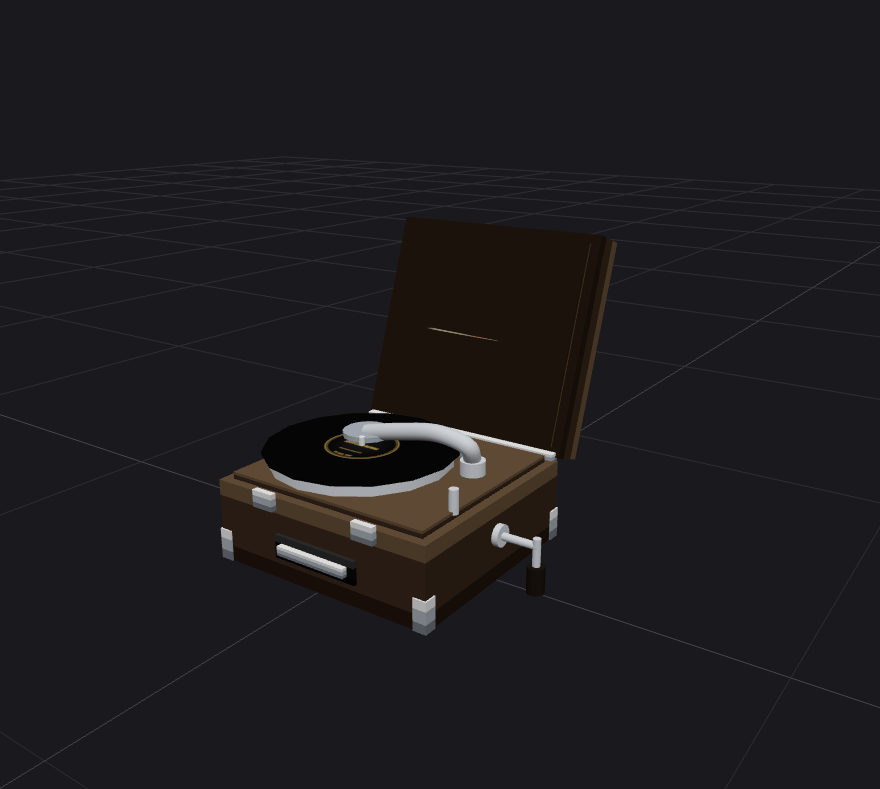
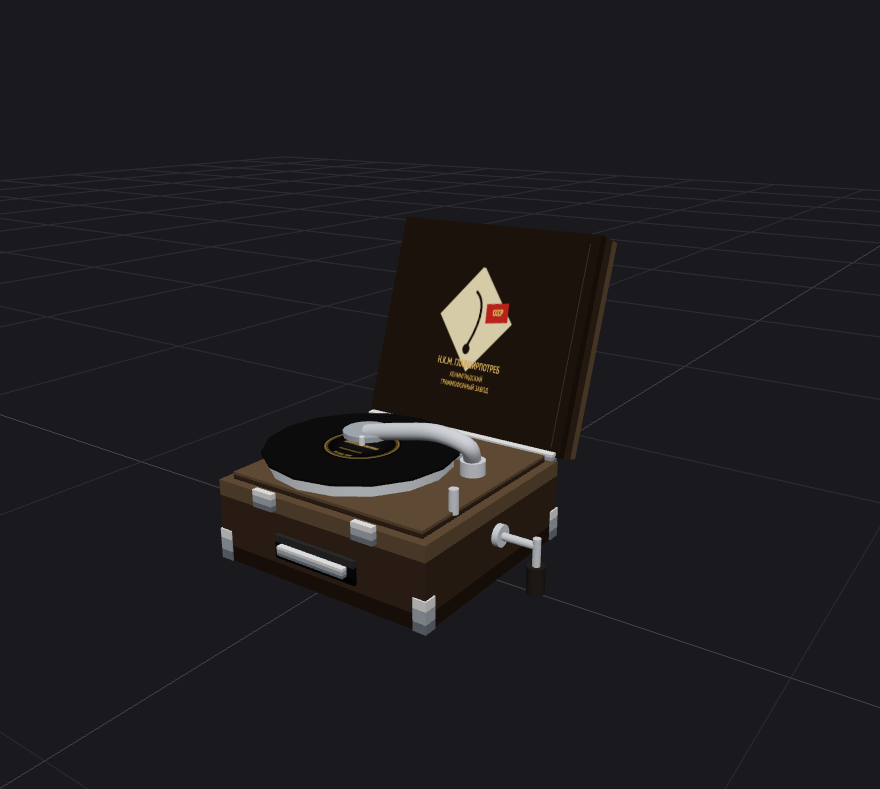
feat(modelgen): disc op + gramophone label styles & orientation fixes
- New standalone `disc` operator (thin cylinder mesh) so the record vinyl can
  be lifted off the platter independently (the live record-swap animation).
- Gramophone spec: record cylinder→disc; lid maker's logo laid flat & facing
  the viewer (was edge-on/reversed); speed/auto plates laid flat on the deck.
- makeRecordLabelTexture: 4 authentic pressing styles (red/blue Апрелевка
  spire emblem, cream Мелодия, gold-on-black) + randomLabelStyle().
- manifest/extents/index/ops-v2 test entries for `disc`; 67/67 tests, lint clean.

Changed region(s): [[0.4909, 0.3346, 0.583, 0.5171]]

diff --git a/src/props/operators/round.js b/src/props/operators/round.js
@@ -17,6 +17,17 @@ export function cylinder(b, a, t, o) {
   g.dispose();
 }
 
+// disc — a thin standalone cylinder (a record, a wheel face) returned as its OWN mesh, so an animator
+// can lift/spin it independently of the merged body (the gramophone's record-swap lifts the whole disc).
+export function disc(b, a, t, o) {
+  const g = new THREE.CylinderGeometry(a.r, a.r, a.h ?? 0.003, a.seg ?? 48);
+  const mesh = new THREE.Mesh(g, new THREE.MeshLambertMaterial({ color: new THREE.Color(a.tone ? t[a.tone] : t.mid) }));
+  const or = ORIENT[a.axis ?? 'y'];
+  mesh.rotation.set(or.rx || 0, or.ry || 0, or.rz || 0);
+  mesh.position.set(o.x, o.y, o.z);
+  return mesh;
+}
+
 // Cone of base radius r, length h, tip pointing along +axis (nose cones, tapers).
 export function cone(b, a, t, o) {
   const seg = a.seg ?? 16;
@@ -188,29 +199,55 @@ function _arcText(c, text, cx, cy, radius, mid, step, size, flip = false) {
   c.restore();
 }
 
-// makeRecordLabelTexture — the gold-on-black Апрелевский / СССР 78-rpm centre label. Exported so
-// the live gramophone re-skins the disc per song (set mesh.material.map = this; map.needsUpdate).
-export function makeRecordLabelTexture({ title = 'СССР', sub = 'АПРЕЛЕВСКИЙ ЗАВОД', mode = 'black' } = {}) {
+// The real 78/33-rpm Soviet pressing labels, drawn from the owner's reference photos: Апрелевский
+// завод in red and blue, the cream Мелодия, plus the gold-on-black classic. Each is {bg, ink, hub,
+// factory, gost, emblem, foot}. The live gramophone picks a random one per track (record-swap).
+const LABEL_STYLES = {
+  aprelevka_red:  { bg: ['#cf2a22', '#9c1812'], ink: '#e7c45a', hub: '#2a0c0a', factory: 'АПРЕЛЕВСКИЙ ЗАВОД', gost: 'ГОСТ 5289-50', emblem: 'spire', foot: 'КОМИТЕТ РАДИОИНФОРМАЦИИ' },
+  aprelevka_blue: { bg: ['#23538f', '#143461'], ink: '#e7c45a', hub: '#0b1c34', factory: 'АПРЕЛЕВСКИЙ ЗАВОД', gost: 'ГОСТ 5289-50', emblem: 'spire', foot: 'КОМИТЕТ ПО ДЕЛАМ ИСКУССТВ' },
+  melodiya:       { bg: ['#efe7d4', '#d6c8ac'], ink: '#21527a', hub: '#1d130a', factory: 'МЕЛОДИЯ', gost: 'ГОСТ 5289-73', emblem: 'melodiya', foot: 'ВСЕСОЮЗНАЯ ФИРМА ГРАМПЛАСТИНОК' },
+  black:          { bg: ['#1c1c1c', '#050505'], ink: '#d8b15a', hub: '#000000', factory: 'АПРЕЛЕВСКИЙ ЗАВОД', gost: 'ГОСТ 5289-50', emblem: 'star', foot: 'МИНИСТЕРСТВО КУЛЬТУРЫ СССР' },
+};
+export const LABEL_STYLE_KEYS = Object.keys(LABEL_STYLES);
+export function randomLabelStyle() { return LABEL_STYLE_KEYS[Math.floor(Math.random() * LABEL_STYLE_KEYS.length)]; }
+
+// The Апрелевка radio-tower-and-wheat emblem (red/blue labels) — a stepped spire flanked by rays/ears.
+function _spireEmblem(c, ink) {
+  c.save(); c.strokeStyle = ink; c.fillStyle = ink; c.lineWidth = 6; c.lineCap = 'round';
+  for (let i = 0; i < 9; i++) { const a = -Math.PI / 2 + (i - 4) * 0.16; c.beginPath(); c.moveTo(0, -6); c.lineTo(Math.sin(a) * 64, -6 - Math.cos(a) * 64); c.stroke(); } // fanned rays
+  c.lineWidth = 4; for (const s of [-1, 1]) for (let j = 0; j < 4; j++) { const x = s * (20 + j * 11), y = -10 + j * 8; c.beginPath(); c.moveTo(s * 8, 6); c.quadraticCurveTo(x, y, x + s * 8, y - 12); c.stroke(); } // wheat ears
+  c.fillRect(-7, -2, 14, 30); c.fillRect(-11, 26, 22, 8);                      // central tower + base
+  c.beginPath(); c.moveTo(0, -20); c.lineTo(-7, -2); c.lineTo(7, -2); c.closePath(); c.fill(); // spire cap
+  c.restore();
+}
+
+// makeRecordLabelTexture — one authentic centre label. `style` ∈ LABEL_STYLE_KEYS (random per song);
+// legacy `mode` ('cream'→melodiya, else black) still accepted. Exported so the live gramophone reskins.
+export function makeRecordLabelTexture({ title = 'СССР', style, mode } = {}) {
+  const key = style && LABEL_STYLES[style] ? style : (mode === 'cream' ? 'melodiya' : 'black');
+  const st = LABEL_STYLES[key];
   const S = 512, cv = document.createElement('canvas'); cv.width = cv.height = S;
   const c = cv.getContext('2d'), R = S / 2;
-  const ink = mode === 'cream' ? '#7a1a14' : '#d8b15a';                       // print colour
   const bg = c.createRadialGradient(R, R, 8, R, R, R);
-  if (mode === 'cream') { bg.addColorStop(0, '#ecdfc4'); bg.addColorStop(1, '#cdbd96'); }
-  else { bg.addColorStop(0, '#1c1c1c'); bg.addColorStop(1, '#050505'); }
+  bg.addColorStop(0, st.bg[0]); bg.addColorStop(1, st.bg[1]);
   c.fillStyle = bg; c.beginPath(); c.arc(R, R, R, 0, 7); c.fill();
-  c.strokeStyle = ink; c.lineWidth = 5; c.beginPath(); c.arc(R, R, R - 20, 0, 7); c.stroke();
+  c.strokeStyle = st.ink; c.lineWidth = 5; c.beginPath(); c.arc(R, R, R - 20, 0, 7); c.stroke();
   c.lineWidth = 2; c.beginPath(); c.arc(R, R, R - 32, 0, 7); c.stroke();
-  c.fillStyle = ink;
-  _arcText(c, sub, R, R, R - 56, -Math.PI / 2, 0.052, 28);                    // top banner
-  _arcText(c, 'ГОСТ 5289-50', R, R, R - 56, Math.PI / 2, 0.060, 22, true);     // bottom
-  c.save(); c.translate(R, R * 0.60); _star(c, 30, ink); c.restore();          // emblem
-  c.fillStyle = ink; c.textAlign = 'center'; c.textBaseline = 'middle';        // title block
+  c.fillStyle = st.ink;
+  _arcText(c, st.factory, R, R, R - 56, -Math.PI / 2, key === 'melodiya' ? 0.075 : 0.052, 28);   // top banner
+  _arcText(c, st.foot, R, R, R - 40, Math.PI / 2, 0.044, 18, true);                                // bottom banner
+  c.save(); c.translate(R, R * 0.585);                                          // emblem
+  if (st.emblem === 'star') _star(c, 30, st.ink);
+  else if (st.emblem === 'melodiya') { c.fillStyle = st.ink; c.font = 'bold 86px Georgia,serif'; c.textAlign = 'center'; c.textBaseline = 'middle'; c.fillText('М', 0, 0); }
+  else _spireEmblem(c, st.ink);
+  c.restore();
+  c.fillStyle = st.ink; c.textAlign = 'center'; c.textBaseline = 'middle';      // title block
   const words = title.toUpperCase().split(' '); const lines = [];
   let ln = ''; for (const w of words) { if ((ln + ' ' + w).trim().length > 16) { lines.push(ln.trim()); ln = w; } else ln += ' ' + w; } if (ln.trim()) lines.push(ln.trim());
   const fs = lines.length > 2 ? 30 : 38; c.font = `bold ${fs}px "PT Sans Narrow","Arial Narrow",sans-serif`;
-  lines.slice(0, 3).forEach((l, i) => c.fillText(l, R, R * 1.04 + (i - (lines.length - 1) / 2) * (fs + 4)));
-  c.font = '17px "PT Sans Narrow",sans-serif'; c.fillText('Министерство культуры СССР', R, R * 1.46);
-  c.fillStyle = mode === 'cream' ? '#1d130a' : '#000'; c.beginPath(); c.arc(R, R, 11, 0, 7); c.fill();
+  lines.slice(0, 3).forEach((l, i) => c.fillText(l, R, R * 1.06 + (i - (lines.length - 1) / 2) * (fs + 4)));
+  c.font = '16px "PT Sans Narrow",sans-serif'; c.fillText(st.gost, R, R * 1.44);
+  c.fillStyle = st.hub; c.beginPath(); c.arc(R, R, 11, 0, 7); c.fill();         // spindle hole
   const tex = new THREE.CanvasTexture(cv); tex.colorSpace = THREE.SRGBColorSpace; tex.anisotropy = 8;
   return tex;
 }

diff --git a/src/props/operators/manifest.js b/src/props/operators/manifest.js
@@ -24,6 +24,7 @@ export const MANIFEST = {
   handleU:     { args: ['w', 'h'],               dims: ['w', 'h'],             anchor: 'floor'  },
   // round (THREE-bound — browser-verified, not node-tested)
   cylinder:    { args: ['r', 'h'],                dims: ['r', 'h'],            anchor: 'center' },
+  disc:        { args: ['r'],                     dims: ['r'],                 anchor: 'center' },
   cone:        { args: ['r', 'h'],                dims: ['r', 'h'],            anchor: 'center' },
   deltaFins:   { args: ['count', 'root', 'span'], dims: ['root', 'span'],      anchor: 'center' },
   texturedCylinder: { args: ['r', 'h'],           dims: ['r', 'h'],            anchor: 'center' },

diff --git a/src/props/operators/index.js b/src/props/operators/index.js
@@ -5,4 +5,4 @@
 export { bevelBox, panel, plate, stencil, planks, finSet, latticeBeam, cabinet } from './structural.js';
 export { drawerStack, legs } from './furniture.js';
 export { lidBox, strapBand, handleU } from './container.js';
-export { cylinder, cone, deltaFins, texturedCylinder, torus, tube, texturedDisc, decal } from './round.js';
+export { cylinder, disc, cone, deltaFins, texturedCylinder, torus, tube, texturedDisc, decal } from './round.js';

diff --git a/src/props/operators/extents.js b/src/props/operators/extents.js
@@ -16,6 +16,7 @@ const axisExtents = (lateral, axial, axis = 'z') => {
 };
 const roundExtents = {
   cylinder: (a) => axisExtents(Math.max(a.r, a.r2 ?? 0), a.h / 2, a.axis ?? 'z'),
+  disc: (a) => axisExtents(a.r, (a.h ?? 0.003) / 2, a.axis ?? 'y'),
   cone: (a) => axisExtents(a.r, a.h / 2, a.axis ?? 'z'),
   texturedCylinder: (a) => axisExtents(Math.max(a.r, a.r2 ?? 0), a.h / 2, a.axis ?? 'z'),
   deltaFins: (a) => {

diff --git a/models/gramophone/BUILD.md b/models/gramophone/BUILD.md
@@ -35,3 +35,11 @@ not a measured spec sheet" — acceptable; recorded, not invented).
 lint clean / node --test 63/63 / canonical render set + ghost saved / every view Read, defects
 fixed / BUILD.md. Animation rig contract (userData by rig name): lid (hinge x), turntable (spin y),
 tonearm (swing y), crank (spin x) — driven at runtime by fonoteka.js.
+
+## Revision 2026-06-10 (fonoteka polish)
+- Lid maker's logo: was a vertical plane (normal ±Z, invisible edge-on); now `axis:y` + `rot[180,0,0]`
+  so it lies flat on the lining and faces the viewer when the lid is open (the "reversed sticker" fix).
+- Speed/auto control plates: `axis:y` so they lie flat on the deck (were standing 90° vertical).
+- Black record vinyl: `cylinder` → new standalone `disc` operator, so the WHOLE record (vinyl + label)
+  lifts off the platter as one piece during the runtime record-swap animation (fonoteka.js groups them
+  into a `disc` node under the turntable). 67/67 tests, lint clean.
